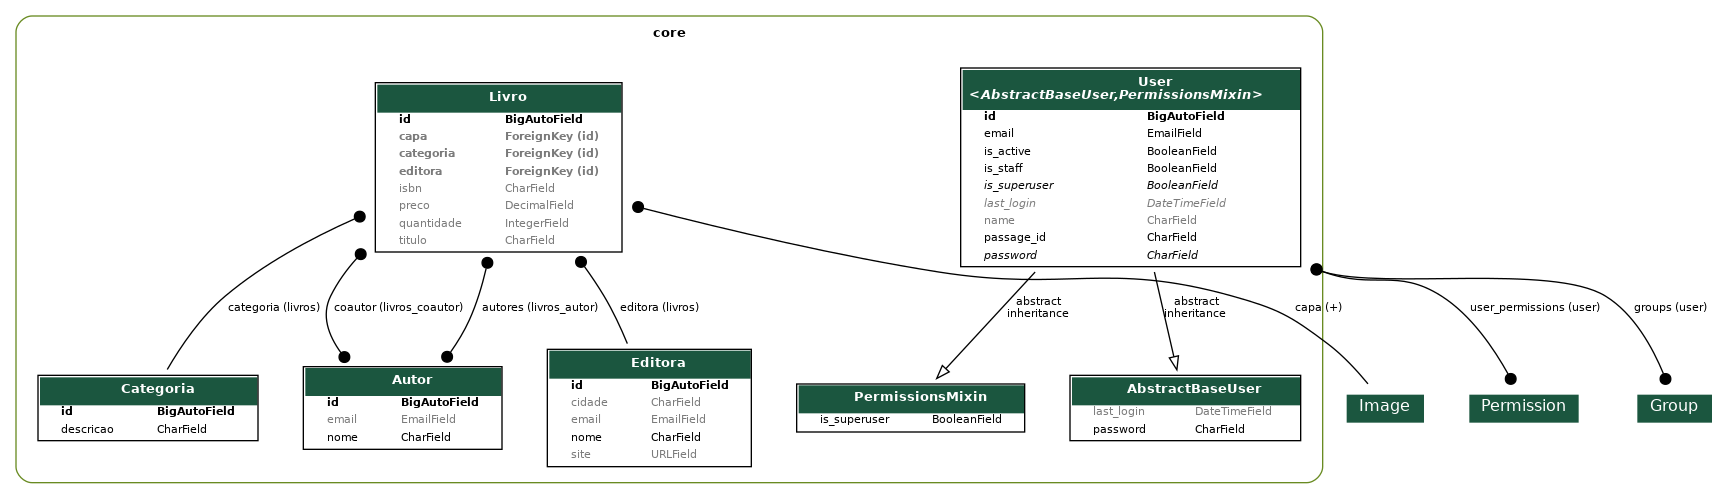
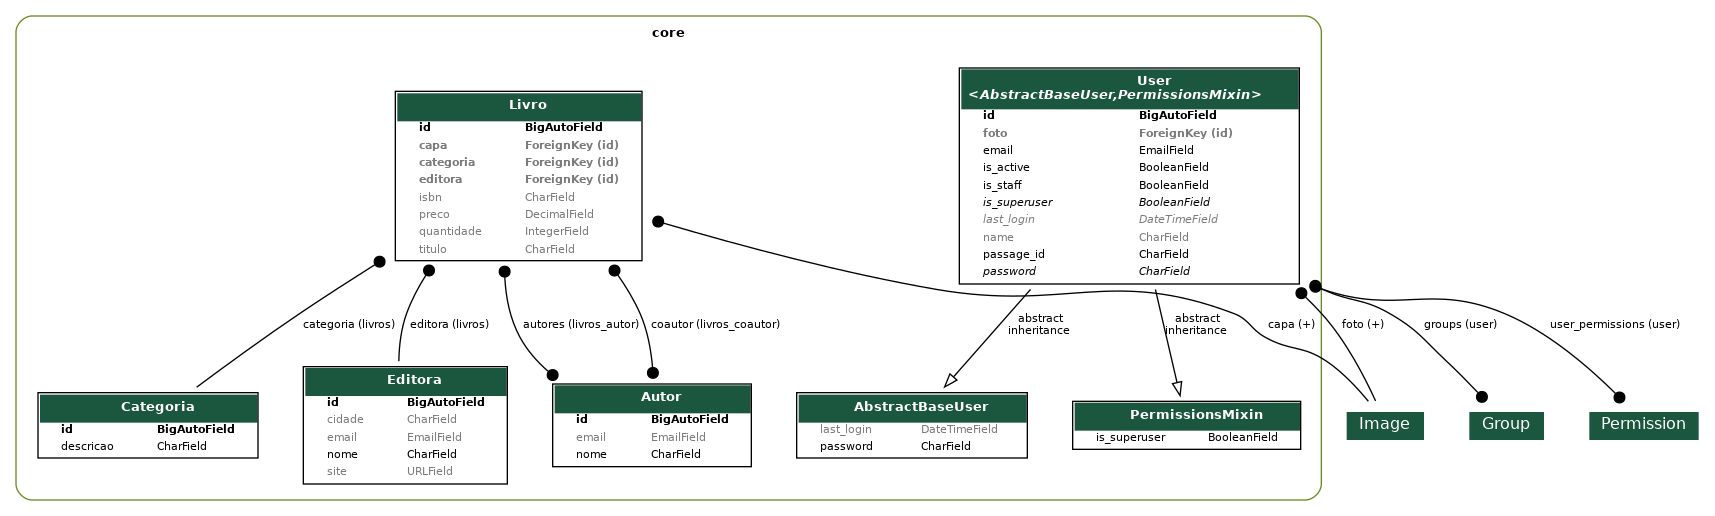
feat: inclusão da foto de perfil no usuário

diff --git a/core/admin.py b/core/admin.py
@@ -11,7 +11,7 @@ from core.models import Autor, Categoria, Editora, Livro, User
 from cffi import model
 from core import models
 
-
+@admin.register(User)
 class UserAdmin(BaseUserAdmin):
     """Define the admin pages for users."""
 
@@ -19,7 +19,7 @@ class UserAdmin(BaseUserAdmin):
     list_display = ["email", "name"]
     fieldsets = (
         (None, {"fields": ("email", "password")}),
-        (_("Personal Info"), {"fields": ("name", "passage_id")}),
+        (_("Personal Info"), {"fields": ("name", "passage_id", "foto")}),
         (
             _("Permissions"),
             {
@@ -45,6 +45,7 @@ class UserAdmin(BaseUserAdmin):
                     "password1",
                     "password2",
                     "name",
+                    "foto",
                     "is_active",
                     "is_staff",
                     "is_superuser",
@@ -53,7 +54,6 @@ class UserAdmin(BaseUserAdmin):
         ),
     )
     
-
 @admin.register(Autor)
 class AutorAdmin(admin.ModelAdmin):
     list_display = ('nome', 'email')

diff --git a/core/serializers/user.py b/core/serializers/user.py
@@ -1,10 +1,23 @@
-from rest_framework.serializers import ModelSerializer
+from rest_framework.serializers import ModelSerializer, SlugRelatedField
 
 from core.models import User
+from uploader.models import Image
+from uploader.serializers import ImageSerializer
 
 
 class UserSerializer(ModelSerializer):
+    foto_attachment_key = SlugRelatedField(
+        source="foto",
+        queryset=Image.objects.all(),
+        slug_field="attachment_key",
+        required=False,
+        write_only=True,
+    )
+    foto = ImageSerializer(
+        required=False,
+        read_only=True
+    )
+
     class Meta:
         model = User
         fields = "__all__"
-        depth = 1

diff --git a/core/models/user.py b/core/models/user.py
@@ -10,6 +10,7 @@ from django.contrib.auth.models import (
 from django.db import models
 from django.utils.translation import gettext_lazy as _
 
+from uploader.models import Image
 
 class UserManager(BaseUserManager):
     """Manager for users."""
@@ -68,6 +69,14 @@ class User(AbstractBaseUser, PermissionsMixin):
         default=False,
         verbose_name=_("Usuário é da equipe"),
         help_text=_("Indica que este usuário pode acessar o Admin.")
+    )
+    foto = models.ForeignKey(
+        Image,
+        related_name="+",
+        on_delete=models.SET_NULL,
+        null=True,
+        blank=True,
+        default=None,
     )
 
     objects = UserManager()

diff --git a/core/migrations/0018_user_foto.py b/core/migrations/0018_user_foto.py
@@ -1,0 +1,20 @@
+# Generated by Django 5.2.1 on 2025-06-03 17:26
+
+import django.db.models.deletion
+from django.db import migrations, models
+
+
+class Migration(migrations.Migration):
+
+    dependencies = [
+        ('core', '0017_alter_autor_email'),
+        ('uploader', '0001_initial'),
+    ]
+
+    operations = [
+        migrations.AddField(
+            model_name='user',
+            name='foto',
+            field=models.ForeignKey(blank=True, default=None, null=True, on_delete=django.db.models.deletion.SET_NULL, related_name='+', to='uploader.image'),
+        ),
+    ]
